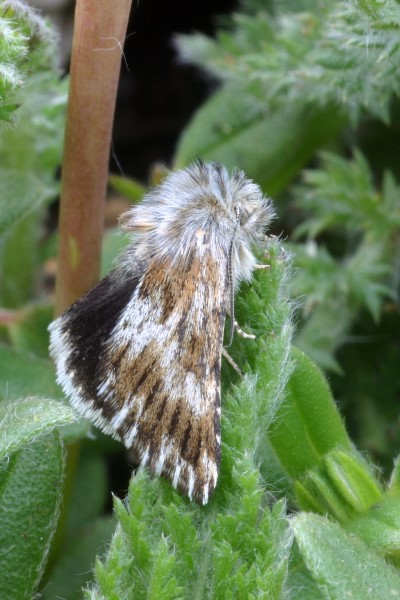
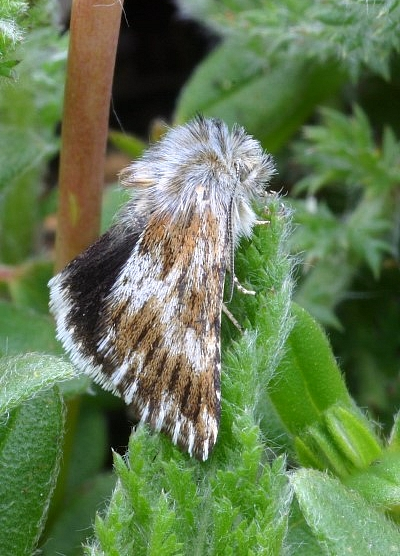
feat(hub/home): fixer 7 liens morts + ajout BDC en 5e card Projets + photos taxref/seqref MaJ
Liens morts (href="#") corriges :
- Hero : 'Explorer Artemisiae' -> route hub.outils.artemisiae
- Projets : 4 cards 'En savoir plus' (IDENT/QUALIF/SEQREF/TAXREF) ->
  routes hub.projets.{ident,qualif,seqref,taxref}
- Publications : Lepis -> route hub.lepis
- CTA : 'Creer un compte' -> route hub.register

Section Projets : passage de 4 a 5 cards avec ajout de BDC (Traits de vie).
- Nouvelle classe CSS .project-grid-5 (5 colonnes desktop, 2 tablette, 1 mobile)
- Card BDC : icone clipboard-list, couleur turquoise (la 5e couleur de la palette
  apres gold/coral/sage/blue), libelle 'Documenter les traits de vie : phenologie,
  plantes-hotes, ecologie.'
- Ordre des cards repense en flux logique : TAXREF -> SEQREF -> BDC -> IDENT ->
  QUALIF (au lieu de IDENT/QUALIF/SEQREF/TAXREF previous, qui etait en ordre alpha
  inverse). Suit le pipeline scientifique : nommer, sequencer, documenter les
  traits, identifier, qualifier.

NB : 3 href="#" restent dans la home : ce sont les toggles des dropdown du
header (Nos projets / Nos publications / Nos outils), non navigables par design.

Photos projets MaJ : taxref/chersotis-oreina.jpg et seqref/omia-cymbalariae.jpg
(recadrages effectues par David).

diff --git a/resources/views/hub/home.blade.php b/resources/views/hub/home.blade.php
@@ -381,10 +381,10 @@
         gap: 18px;
     }
 
-    .project-grid-4 {
+    .project-grid-5 {
         display: grid;
-        grid-template-columns: repeat(4, 1fr);
-        gap: 16px;
+        grid-template-columns: repeat(5, 1fr);
+        gap: 14px;
     }
 
     .project-card {
@@ -738,7 +738,7 @@
         }
 
         .project-grid,
-        .project-grid-4 {
+        .project-grid-5 {
             grid-template-columns: repeat(2, 1fr);
         }
 
@@ -748,7 +748,7 @@
     }
 
     @media (max-width: 760px) {
-        .project-grid-4 {
+        .project-grid-5 {
             grid-template-columns: 1fr;
         }
 
@@ -802,7 +802,7 @@
 
                 <div class="hero-actions">
                     <a href="{{ route('hub.about') }}" class="btn btn-primary"><i class="icon icon-sage" data-lucide="sparkles"></i>Découvrir OREINA</a>
-                    <a href="#" class="btn btn-ghost-light"><i class="icon icon-white" data-lucide="database"></i>Explorer Artemisiae</a>
+                    <a href="{{ route('hub.outils.artemisiae') }}" class="btn btn-ghost-light"><i class="icon icon-white" data-lucide="database"></i>Explorer Artemisiae</a>
                 </div>
 
                 <div class="hero-bottom">
@@ -943,23 +943,14 @@
                 <p>Des projets concrets, du plus accessible au plus spécialisé.</p>
             </div>
 
-            <div class="project-grid-4">
+            <div class="project-grid-5">
                 <article class="pub-card">
-                    <div class="pub-card-icon" style="background: rgba(237,196,66,0.14);">
-                        <i class="icon icon-gold" data-lucide="search"></i>
+                    <div class="pub-card-icon" style="background: rgba(53,107,138,0.10);">
+                        <i class="icon icon-blue" data-lucide="binary"></i>
                     </div>
-                    <h4>IDENT</h4>
-                    <p>Apprendre à reconnaître les espèces, accéder aux guides et aux formations.</p>
-                    <a href="#" class="text-link"><i data-lucide="arrow-right"></i>En savoir plus</a>
-                </article>
-
-                <article class="pub-card">
-                    <div class="pub-card-icon" style="background: rgba(239,122,92,0.10);">
-                        <i class="icon icon-coral" data-lucide="badge-check"></i>
-                    </div>
-                    <h4>QUALIF</h4>
-                    <p>Valider, vérifier et garantir la fiabilité des observations partagées.</p>
-                    <a href="#" class="text-link"><i data-lucide="arrow-right"></i>En savoir plus</a>
+                    <h4>TAXREF</h4>
+                    <p>Nommer, classer et harmoniser les connaissances taxonomiques.</p>
+                    <a href="{{ route('hub.projets.taxref') }}" class="text-link"><i data-lucide="arrow-right"></i>En savoir plus</a>
                 </article>
 
                 <article class="pub-card">
@@ -968,16 +959,34 @@
                     </div>
                     <h4>SEQREF</h4>
                     <p>Construire une bibliothèque moléculaire de référence pour les Lépidoptères.</p>
-                    <a href="#" class="text-link"><i data-lucide="arrow-right"></i>En savoir plus</a>
+                    <a href="{{ route('hub.projets.seqref') }}" class="text-link"><i data-lucide="arrow-right"></i>En savoir plus</a>
                 </article>
 
                 <article class="pub-card">
-                    <div class="pub-card-icon" style="background: rgba(53,107,138,0.10);">
-                        <i class="icon icon-blue" data-lucide="binary"></i>
+                    <div class="pub-card-icon" style="background: rgba(20,184,166,0.10);">
+                        <i class="icon" style="color:#0d9488;" data-lucide="clipboard-list"></i>
                     </div>
-                    <h4>TAXREF</h4>
-                    <p>Nommer, classer et harmoniser les connaissances taxonomiques.</p>
-                    <a href="#" class="text-link"><i data-lucide="arrow-right"></i>En savoir plus</a>
+                    <h4>BDC</h4>
+                    <p>Documenter les traits de vie : phénologie, plantes-hôtes, écologie.</p>
+                    <a href="{{ route('hub.projets.bdc') }}" class="text-link"><i data-lucide="arrow-right"></i>En savoir plus</a>
+                </article>
+
+                <article class="pub-card">
+                    <div class="pub-card-icon" style="background: rgba(237,196,66,0.14);">
+                        <i class="icon icon-gold" data-lucide="search"></i>
+                    </div>
+                    <h4>IDENT</h4>
+                    <p>Apprendre à reconnaître les espèces, accéder aux guides et aux formations.</p>
+                    <a href="{{ route('hub.projets.ident') }}" class="text-link"><i data-lucide="arrow-right"></i>En savoir plus</a>
+                </article>
+
+                <article class="pub-card">
+                    <div class="pub-card-icon" style="background: rgba(239,122,92,0.10);">
+                        <i class="icon icon-coral" data-lucide="badge-check"></i>
+                    </div>
+                    <h4>QUALIF</h4>
+                    <p>Valider, vérifier et garantir la fiabilité des observations partagées.</p>
+                    <a href="{{ route('hub.projets.qualif') }}" class="text-link"><i data-lucide="arrow-right"></i>En savoir plus</a>
                 </article>
             </div>
         </div>
@@ -1011,7 +1020,7 @@
                         </div>
                         <h4>Lepis</h4>
                         <p>Bulletin trimestriel des adhérents.</p>
-                        <a href="#" class="text-link"><i data-lucide="arrow-right"></i>En savoir plus</a>
+                        <a href="{{ route('hub.lepis') }}" class="text-link"><i data-lucide="arrow-right"></i>En savoir plus</a>
                     </article>
                 </div>
             </div>
@@ -1068,7 +1077,7 @@
                 <p>Rejoignez une communauté engagée. Adhérez à l'association pour soutenir nos projets, accéder aux outils et contribuer à la science participative.</p>
                 <div class="content-actions">
                     <a href="{{ route('hub.membership') }}" class="btn btn-primary"><i class="icon icon-sage" data-lucide="heart-plus"></i>Adhérer à l'association</a>
-                    <a href="#" class="btn btn-ghost-light"><i class="icon icon-white" data-lucide="user-round-plus"></i>Créer un compte</a>
+                    <a href="{{ route('hub.register') }}" class="btn btn-ghost-light"><i class="icon icon-white" data-lucide="user-round-plus"></i>Créer un compte</a>
                 </div>
             </article>
         </div>
